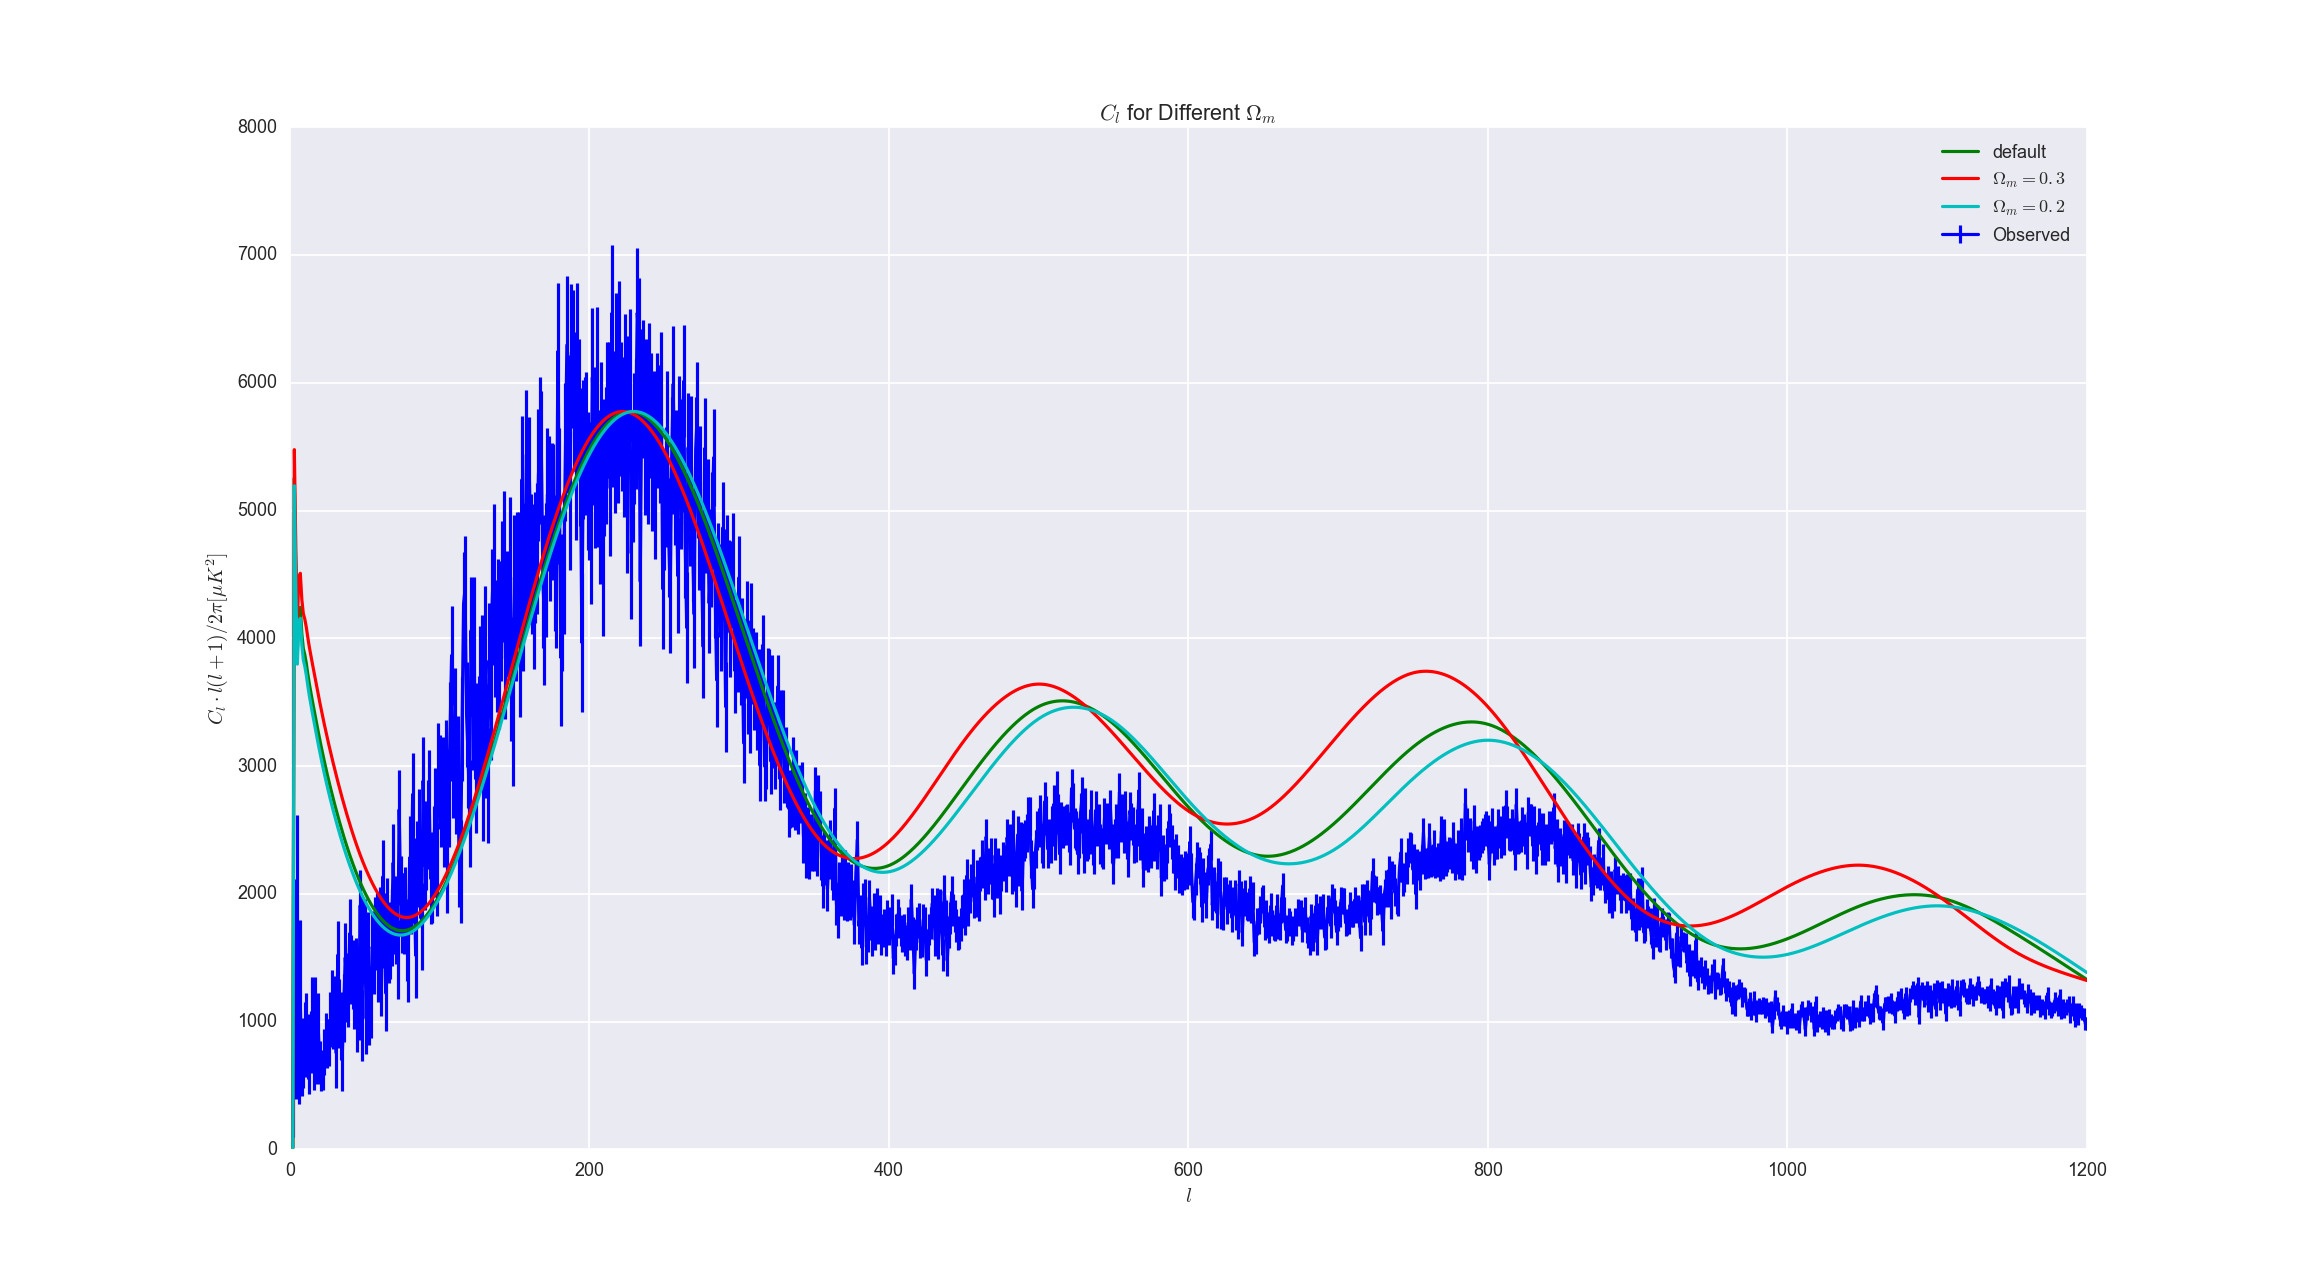
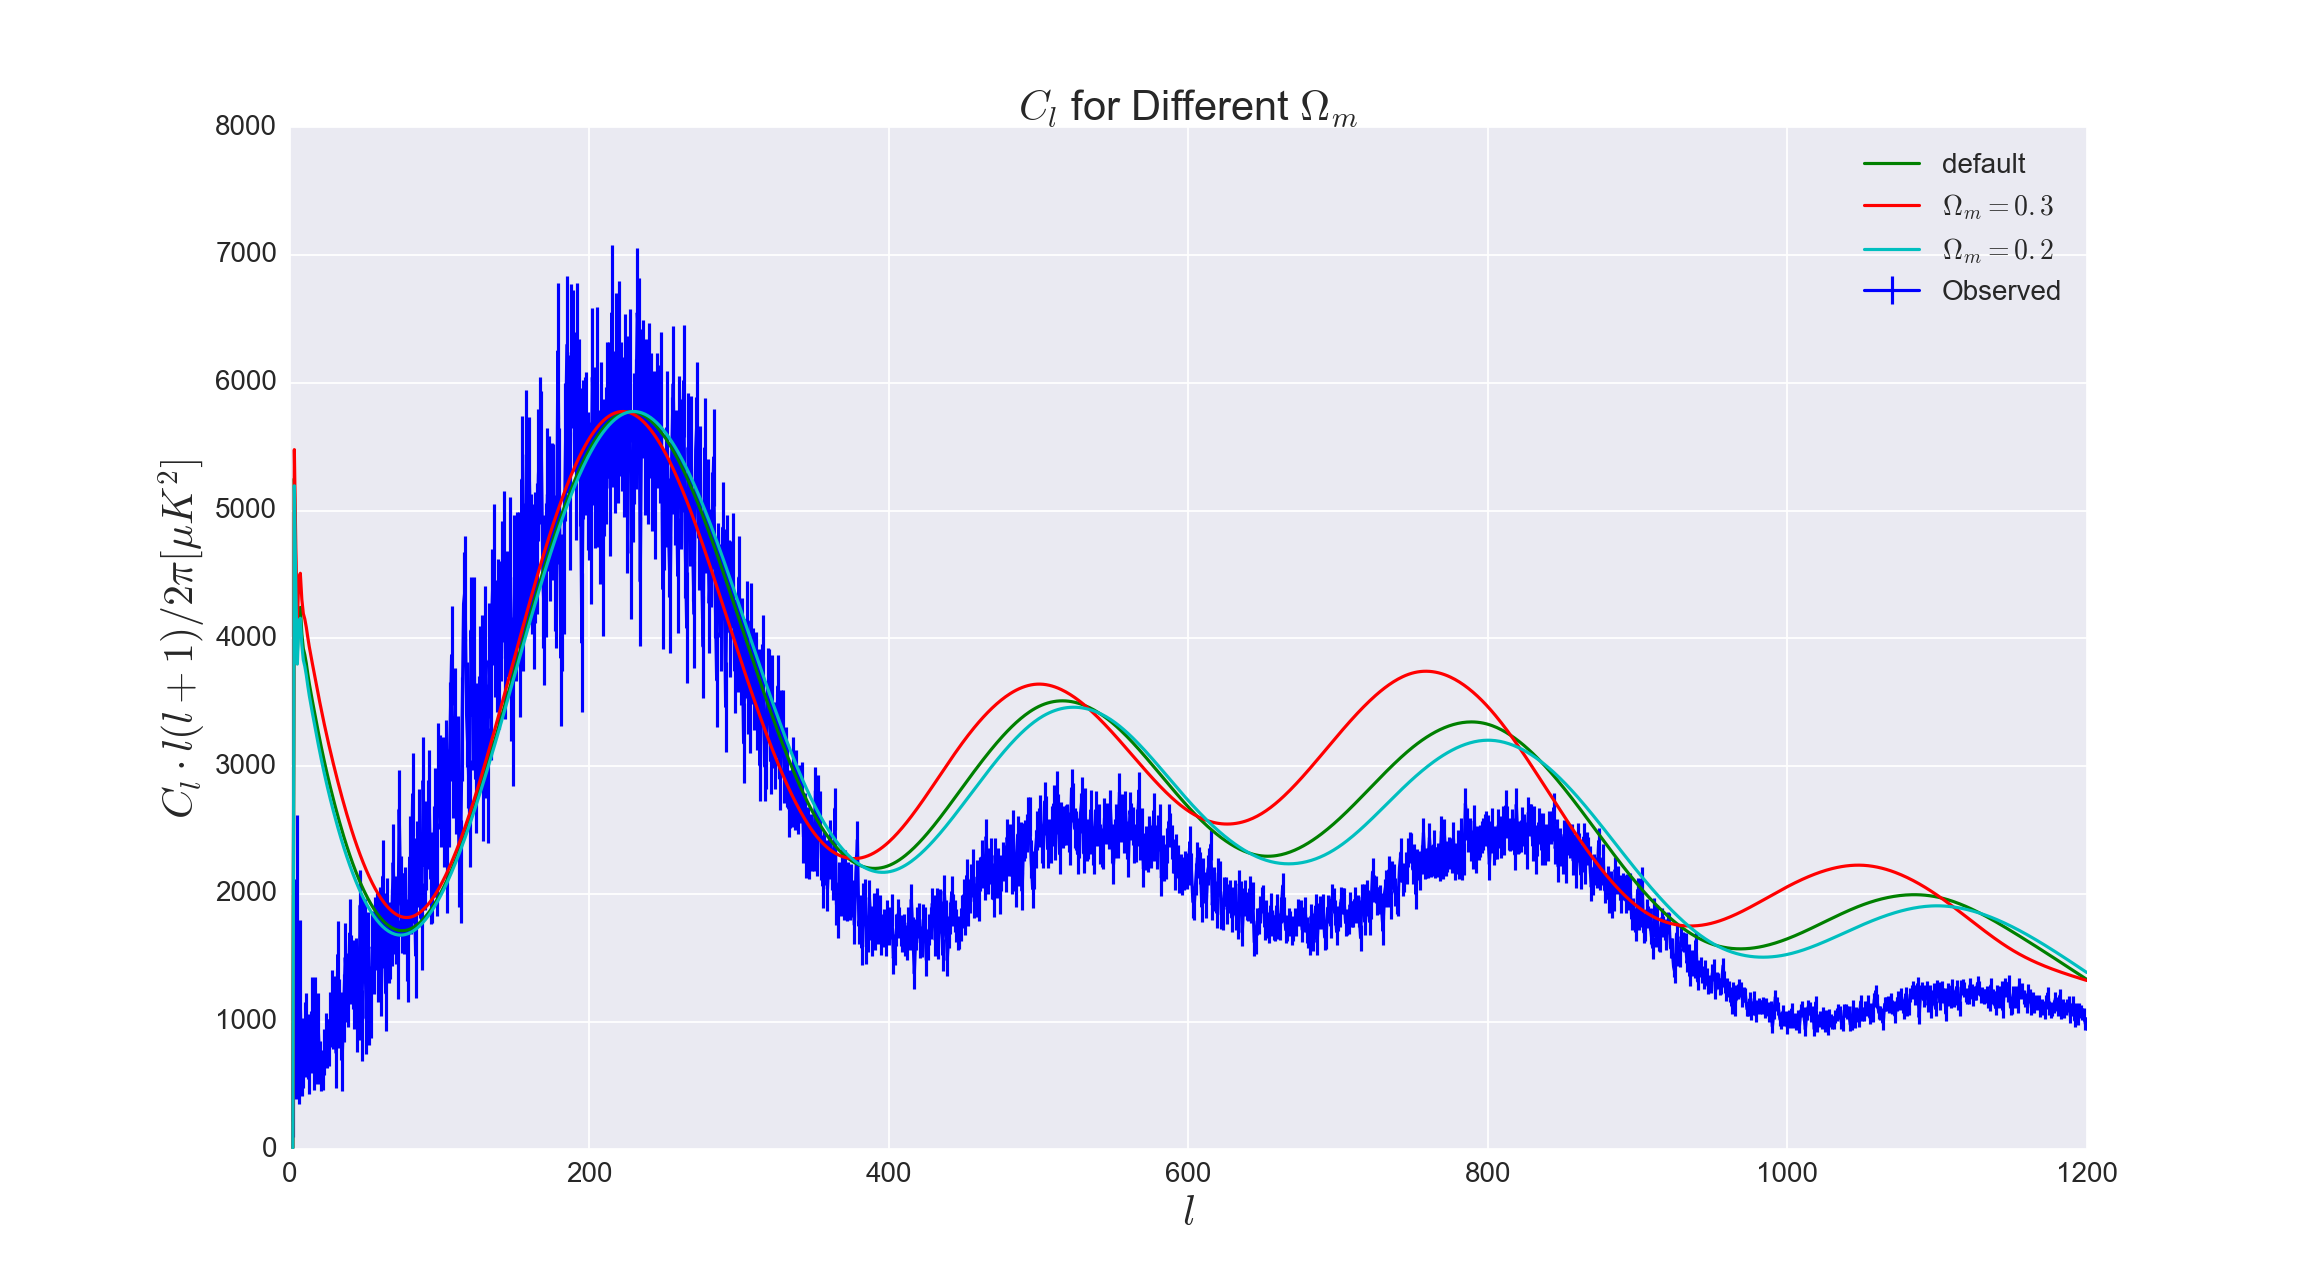
Changes font size on plots, and adds a best fit plot

diff --git a/milestone4/analysis/milestone4.py b/milestone4/analysis/milestone4.py
@@ -7,6 +7,11 @@ from scipy.signal import savgol_filter
 sns.set_style("darkgrid")
 sns.set_context("talk")
 
+plt.rc('xtick', labelsize=20)
+plt.rc('ytick', labelsize=20)
+
+
+
 def read_file(name):
     y = []
 
@@ -69,10 +74,10 @@ def plot_default_againts_other(ls,cl_default,cl_up,cl_down,observed,observed_lim
     plt.plot(ls,cl_default,label="default")
     plt.plot(ls,cl_up,label=up_label)
     plt.plot(ls,cl_down,label=down_label)
-    plt.title(title)
-    plt.xlabel(r"$l$")
-    plt.ylabel(r"$C_l\cdot l(l+1)/2\pi [\mu K^2]$")
-    plt.legend(loc="best")
+    plt.title(title,fontsize=30)
+    plt.xlabel(r"$l$",fontsize=30)
+    plt.ylabel(r"$C_l\cdot l(l+1)/2\pi [\mu K^2]$",fontsize=30)
+    plt.legend(loc="best",fontsize=20)
     plt.show()
 
 
@@ -99,10 +104,11 @@ if __name__ == "__main__":
     plt.errorbar(ls,Dl,yerr=Dl_limits,label="Observed")
     
     plt.plot(ls,cl_default_normed,label="default")
-    plt.title(r"$C_l$ for simulation and observations")
-    plt.xlabel(r"$l$")
-    plt.ylabel(r"$C_l\cdot l(l+1)/2\pi [\mu K^2]$")
-    plt.legend(loc="best")
+    plt.title(r"$C_l$ for simulation and observations",fontsize=30)
+    plt.xlabel(r"$l$",fontsize=30)
+    plt.ylabel(r"$C_l\cdot l(l+1)/2\pi [\mu K^2]$",fontsize=30)
+    plt.legend(loc="best",fontsize=20)
+    
     plt.show()
 
 
@@ -155,6 +161,32 @@ if __name__ == "__main__":
     plot_default_againts_other(ls,cl_default_normed,cl_h_up,cl_h_down,Dl,Dl_limits,up_label=r"$h = 0.8$",down_label=r"$h=0.6$",title=r"$C_l$ for Different $h$")
 
 
+    #For best fit
+    cl_best_1 = read_file(output_path+"cls_bf_1.dat")
+    cl_best_1 = normalize_cl(cl_best_1,cl_default)
+
+    cl_best_2 = read_file(output_path+"cls_bf_2.dat")
+    cl_best_2 = normalize_cl(cl_best_2,cl_default)
+
+    cl_best_6 = read_file(output_path+"cls_bf_6.dat")
+    cl_best_6 = normalize_cl(cl_best_6,cl_default)
+
+    cl_best_7 = read_file(output_path+"cls_bf_7.dat")
+    cl_best_7 = normalize_cl(cl_best_7,cl_default)
+
+    plt.errorbar(ls,Dl,yerr=Dl_limits,label="Observed")
+    
+    plt.plot(ls,cl_best_1,label=r"$\Omega_b = 0.06, \Omega_m = 0.2, n_s = 0.9$")
+    plt.plot(ls,cl_best_2,label=r"$\Omega_b = 0.055, \Omega_m = 0.18, n_s = 0.9$")
+    plt.plot(ls,cl_best_6,label=r"$\Omega_b = 0.06, \Omega_m = 0.18, n_s = 0.85$")
+    plt.plot(ls,cl_best_7,label=r"$\Omega_b = 0.065, \Omega_m = 0.20, n_s = 0.80$")
+    plt.title(r"$C_l$ for Best Fit",fontsize=30)
+    plt.xlabel(r"$l$",fontsize=30)
+    plt.ylabel(r"$C_l\cdot l(l+1)/2\pi [\mu K^2]$",fontsize=30)
+    plt.legend(loc="best",fontsize=20)
+    plt.show()
+
+
     
     
     # For plotting Source function times Bessel
@@ -165,8 +197,8 @@ if __name__ == "__main__":
     plt.plot(x,sjl/1e-3)
     plt.xlim(-8,0)
     plt.ylim(-3,2)
-    plt.xlabel("x")
-    plt.ylabel(r"$\tilde{S}j_l(k(\eta_0-\eta))/10^{-3}$")
+    plt.xlabel("x",fontsize=30)
+    plt.ylabel(r"$\tilde{S}j_l(k(\eta_0-\eta))/10^{-3}$",fontsize=30)
     plt.show()
 
 
@@ -182,8 +214,8 @@ if __name__ == "__main__":
         Theta = read_file(output_path+filename)
         plt.plot(ks[:2500],Theta[:2500],label="l=%s"%l)
     plt.legend(loc="best")
-    plt.xlabel(r"$kc/H_0$")
-    plt.ylabel(r"$\Theta_l$")
+    plt.xlabel(r"$kc/H_0$",fontsize=30)
+    plt.ylabel(r"$\Theta_l$",fontsize=30)
     plt.xlim(0,500)
     plt.ylim(-.025,.025)
     plt.show()
@@ -194,8 +226,8 @@ if __name__ == "__main__":
         Theta = read_file(output_path+filename)
         plt.plot(ks[:2000],l*Theta[:2000]**2/(ks[:2000]),label="l=%s"%l)
     plt.legend(loc="best")
-    plt.xlabel(r"$kc/H_0$")
-    plt.ylabel(r"$l\Theta_l^2/k \cdot H_0/c$")
+    plt.xlabel(r"$kc/H_0$",fontsize=30)
+    plt.ylabel(r"$l\Theta_l^2/k \cdot H_0/c$",fontsize=30)
     plt.xlim(0,400)
     plt.ylim(0,0.0002)
     plt.show()
